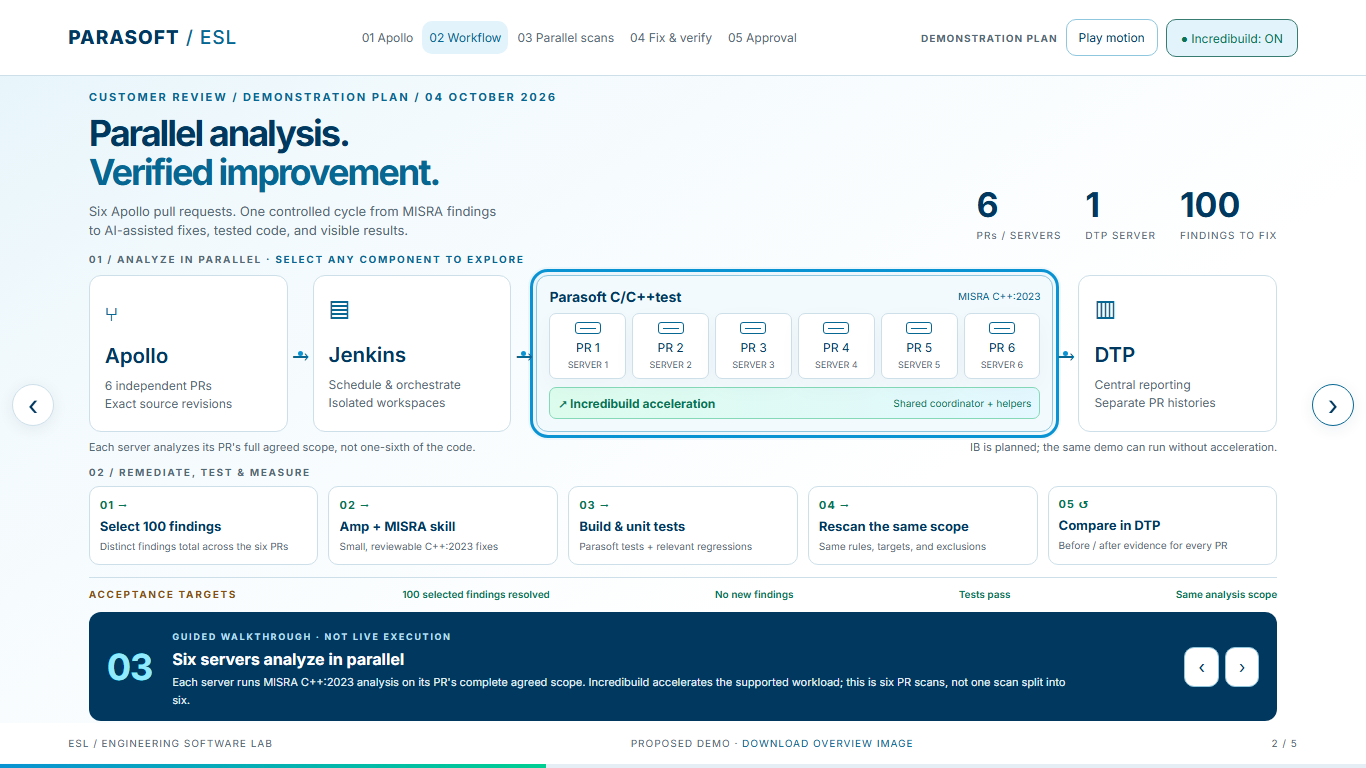
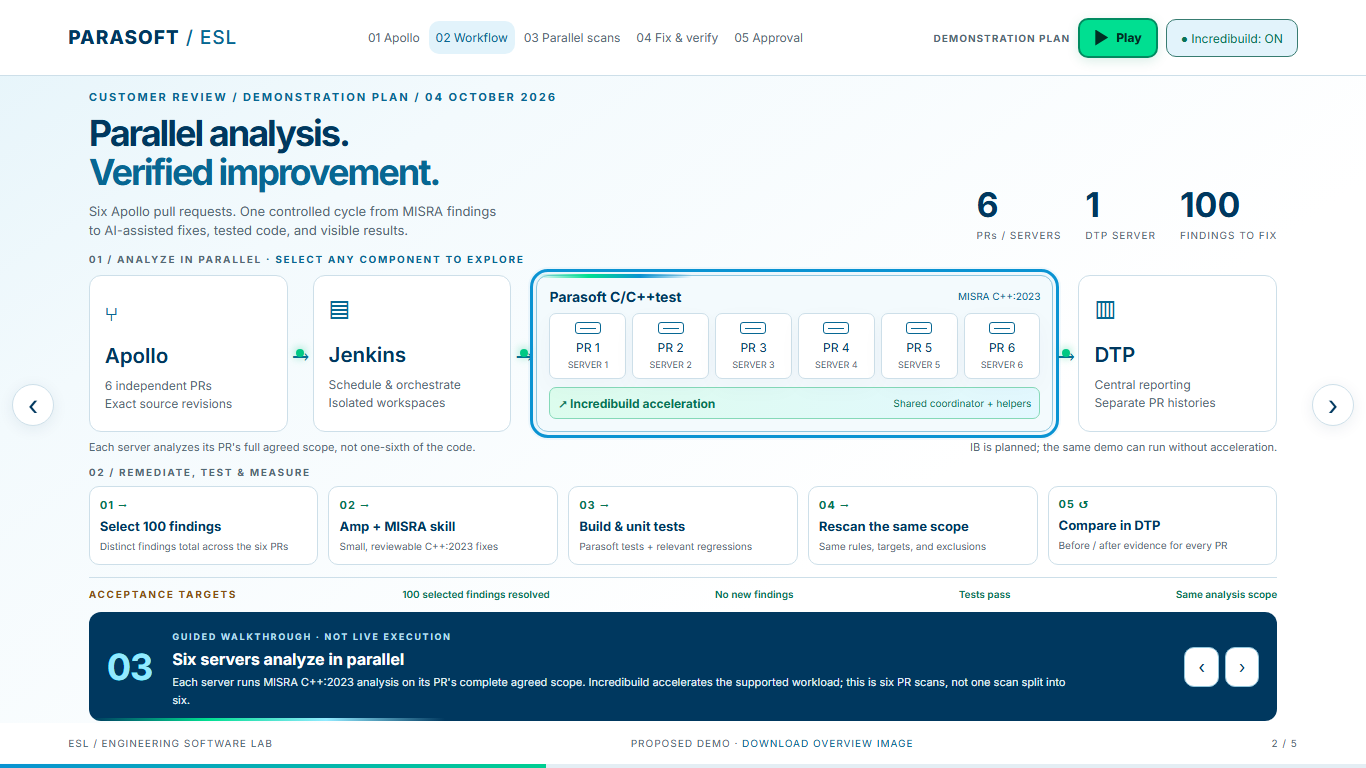
Make Apollo walkthrough playback immediate and visibly animated
Amp-Thread-ID: T-01a1063e-4fd3-7348-b0dd-2b9fa2509345

diff --git a/apollo-misra-demo/index.html b/apollo-misra-demo/index.html
@@ -15,7 +15,7 @@
 @media(min-width:1500px){.pipeline{margin-top:20px}.node{padding:28px 20px}.server{padding:22px 4px}.step{padding:22px}.underflow{margin-bottom:28px}.loop{margin-top:18px}.outcomes{padding-top:24px;margin-top:30px}}
 @media(max-width:1050px){.tabs{display:none}.heading{align-items:flex-start}.statline{gap:15px}.statline strong{font-size:28px}.pipeline{grid-template-columns:1fr 18px 1fr 18px 2.7fr 18px 1fr}.farm{padding:10px}.node{padding:14px 10px}.farm-head span{display:none}.server{font-size:10px}.server i{width:20px}.accel{display:block}.accel span{display:block;margin-top:5px}.outcomes{flex-wrap:wrap}.two-col{gap:16px}.card{padding:20px}}
 @media(max-width:720px){.top{height:66px;padding:0 20px}.brand{font-size:16px}.proposal{display:none}.top-right{gap:6px}#ibToggle{font-size:10px;padding:9px}.slide{padding:90px 28px 90px}.heading{display:block;margin-bottom:22px}h1,h2{letter-spacing:-1.2px}.statline{margin-top:20px;gap:28px}.statline strong{font-size:26px}.statline span{font-size:9px}.pipeline{grid-template-columns:1fr;gap:6px}.arrow{height:20px;transform:rotate(90deg)}.node{padding:16px;display:grid;grid-template-columns:34px 1fr;gap:4px 12px}.node .symbol{grid-row:1/3;margin:0;align-self:center}.node small{grid-column:2}.farm{padding:16px}.farm-head span{display:block}.server{padding:17px 3px}.accel{display:flex}.accel span{margin:0}.underflow{display:block;font-size:10px;line-height:1.8}.underflow span{display:block}.loop{grid-template-columns:1fr}.step{display:grid;grid-template-columns:28px 1fr;gap:3px 8px;padding:14px}.step b{grid-row:1/3;margin:2px 0}.step small{grid-column:2;margin-top:0}.outcomes{display:grid;grid-template-columns:1fr 1fr;line-height:1.6}.outcomes .label{grid-column:1/-1}.hint{line-height:1.8}.nav-arrow{width:26px;height:36px;font-size:23px}#prev{left:0}#next{right:0}.footer{padding:12px 20px;font-size:8px}.footer .footer-middle{display:none}.two-col{grid-template-columns:1fr}.lane-grid{gap:8px}.lane{padding:18px 12px}.lane b{font-size:22px}.lane span{font-size:10px}.card{padding:20px}.detail-line{font-size:12px}.target-chart strong{font-size:54px}.eyebrow{font-size:10px;line-height:1.7}.callout{font-size:12px}}
-@media(prefers-reduced-motion:reduce){*{animation:none!important;transition:none!important}}
+@media(prefers-reduced-motion:reduce){body:not(.motion-enabled) *{animation:none!important;transition:none!important}}
 @media print{body{overflow:visible;background:white;color:black}.top,.footer,.nav-arrow,.progress,.tabs,.hint,.actions{display:none!important}.deck{display:block;transform:none!important}.slide{height:auto;min-height:95vh;width:100%;padding:25px;overflow:visible;break-after:page;background:#07101d;color:#edf5fc;print-color-adjust:exact}.slide[inert]{display:block}.heading{display:block}.two-col{grid-template-columns:1fr 1fr}}
 
 /* Palette sampled from Parasoft's C/C++test product page. */
@@ -31,7 +31,10 @@ button[aria-pressed="true"],.tabs button[aria-current="page"]{background:#e2f3fb
 .primary{background:linear-gradient(100deg,#00e99c,#a0ecff);color:#002743;border-color:transparent;border-radius:24px}
 .progress{background:#e4eef4}.progress div{background:linear-gradient(90deg,#0a93d2,#00ce92)}
 dialog{border-color:#8fc7df}dialog::backdrop{background:#00274380}
-#motionToggle{padding:10px 12px;font-size:12px;white-space:nowrap;border-color:#8fc7df}
+#motionToggle{display:flex;align-items:center;gap:8px;padding:10px 14px;font-size:12px;font-weight:800;white-space:nowrap;background:#00df91;color:#002f24;border:2px solid #008b60;box-shadow:0 3px 12px #008b6026}
+#motionToggle:hover{background:#2aefa9}#motionToggle[aria-pressed="true"]{background:#087454;color:#fff;border-color:#065b42}
+#motionIcon{width:14px;height:16px;display:block;flex-shrink:0;background:currentColor;clip-path:polygon(8% 0,100% 50%,8% 100%)}
+#motionToggle[aria-pressed="true"] #motionIcon{clip-path:none;background:none;border-left:5px solid currentColor;border-right:5px solid currentColor}
 .intro-grid{display:grid;grid-template-columns:1.15fr 1fr;gap:24px;margin-top:24px}
 .intro-metric{background:var(--white);color:white;border-radius:16px;padding:28px;position:relative;overflow:hidden}
 .intro-metric:after{content:'C++';position:absolute;right:-8px;top:10px;font-size:130px;font-weight:800;opacity:.06;pointer-events:none}
@@ -43,10 +46,18 @@ dialog{border-color:#8fc7df}dialog::backdrop{background:#00274380}
 .walkthrough{display:grid;grid-template-columns:auto 1fr auto;gap:20px;align-items:center;background:#00385f;color:white;border-radius:12px;padding:18px 22px;margin-top:18px;min-height:115px}
 .walkthrough .phase-index{font-size:36px;color:#92eaff;font-weight:700;letter-spacing:-1px}.walkthrough .label{color:#b7dfee;font-size:9px}.walkthrough h3{margin:5px 0;font-size:18px}.walkthrough p{margin:0;color:#e1f1f8;font-size:12px;line-height:1.6;max-width:900px}.phase-controls{display:flex;gap:6px}.phase-controls button{background:#fff;color:#00385f;padding:9px 13px;border-color:#92c6dc;font-size:17px}
 .is-active{outline:3px solid var(--blue);outline-offset:3px;box-shadow:0 0 0 8px #0a93d20e!important;transition:outline-color .3s,box-shadow .3s}
-.arrow{position:relative}.arrow:after{content:'';position:absolute;width:5px;height:5px;background:var(--blue);border-radius:50%;animation:flow 1.5s linear infinite}
-@keyframes flow{0%{translate:-10px 0;opacity:0}25%{opacity:1}100%{translate:10px 0;opacity:0}}
+.arrow{position:relative}.arrow:after{content:'';position:absolute;width:8px;height:8px;background:#00c884;box-shadow:0 0 10px #00c884aa;border-radius:50%;animation:flow 1.2s linear infinite}
+@keyframes flow{0%{translate:-12px 0;opacity:0;scale:.5}25%{opacity:1;scale:1}100%{translate:12px 0;opacity:0;scale:.5}}
 .step.is-active b,.server i{animation:signal 2s ease-in-out infinite}.server:nth-child(2n) i{animation-delay:.4s}.server:nth-child(3n) i{animation-delay:.8s}
 @keyframes signal{50%{opacity:.4}}
+.farm{position:relative}.farm:after{content:'';position:absolute;top:-2px;left:0;width:30%;height:4px;border-radius:4px;background:linear-gradient(90deg,transparent,#00df91,var(--blue),transparent);animation:scan-sweep 2.4s ease-in-out infinite}
+@keyframes scan-sweep{0%,100%{left:0;opacity:.3}50%{left:70%;opacity:1}}
+.is-active{animation:active-phase 1.8s ease-in-out infinite}.server{animation:server-lift 2.4s ease-in-out infinite}.server:nth-child(2){animation-delay:.2s}.server:nth-child(3){animation-delay:.4s}.server:nth-child(4){animation-delay:.6s}.server:nth-child(5){animation-delay:.8s}.server:nth-child(6){animation-delay:1s}
+@keyframes active-phase{50%{outline-color:#00b77c;filter:drop-shadow(0 5px 8px #0a93d233)}}
+@keyframes server-lift{50%{translate:0 -5px;border-color:#00a873}}
+.cycle-steps [aria-pressed="true"],.lane[aria-pressed="true"]{animation:stage-glow 1.8s ease-in-out infinite}
+@keyframes stage-glow{50%{background:#d2f7e9;translate:5px 0}}
+.walkthrough{position:relative;overflow:hidden}.walkthrough:after{content:'';position:absolute;bottom:0;left:0;height:3px;width:30%;background:linear-gradient(90deg,transparent,#00df91,#92eaff,transparent);animation:scan-sweep 2.4s ease-in-out infinite}
 .cycle-steps button:after{content:'↓';margin-left:auto;color:var(--blue);font-size:18px}.cycle-steps button:last-of-type:after{content:'↺'}
 .cycle-steps [aria-pressed="true"]{box-shadow:inset 4px 0 var(--blue)}
 .motion-paused *{animation-play-state:paused!important}.slide[inert] *{animation-play-state:paused!important}
@@ -65,7 +76,7 @@ dialog{border-color:#8fc7df}dialog::backdrop{background:#00274380}
   .two-col{margin-top:18px}.card{padding:18px}.card p{font-size:13px;line-height:1.5;margin:10px 0}.card h3{font-size:20px;margin-bottom:10px}.detail-line{padding:10px 0;font-size:12px}.lane{padding:20px 14px}.pill{margin-bottom:10px}
   .cycle-steps button{padding:13px 16px}.target-chart{padding:10px 0}.target-chart strong{font-size:52px}.checks{margin-top:0;gap:8px}.check{padding:11px;font-size:12px;line-height:1.5}.approval-total{font-size:46px;margin:10px 0}.actions{margin-top:12px}.approval-note{font-size:10px!important}.status{min-height:20px}
 }
-@media(prefers-reduced-motion:reduce){*::before,*::after{animation:none!important;transition:none!important}}
+@media(prefers-reduced-motion:reduce){body:not(.motion-enabled) *::before,body:not(.motion-enabled) *::after{animation:none!important;transition:none!important}}
 @media print{.slide{background:#fff;color:#00385f}.top,.phase-controls{display:none!important}.walkthrough,.intro-metric{print-color-adjust:exact}.is-active{outline:none}}
 </style>
 </head>
@@ -75,7 +86,7 @@ dialog{border-color:#8fc7df}dialog::backdrop{background:#00274380}
   <nav class="tabs" aria-label="Presentation sections">
     <button data-slide="0" aria-current="page">01 Apollo</button><button data-slide="1">02 Workflow</button><button data-slide="2">03 Parallel scans</button><button data-slide="3">04 Fix &amp; verify</button><button data-slide="4">05 Approval</button>
   </nav>
-  <div class="top-right"><span class="proposal">DEMONSTRATION PLAN</span><button id="motionToggle" aria-pressed="true" aria-label="Toggle walkthrough animation">Pause motion</button><button id="ibToggle" aria-pressed="true">● Incredibuild: ON</button></div>
+  <div class="top-right"><span class="proposal">DEMONSTRATION PLAN</span><button id="motionToggle" aria-pressed="false" aria-label="Play animated walkthrough"><span id="motionIcon" aria-hidden="true"></span><span id="motionLabel">Play</span></button><button id="ibToggle" aria-pressed="true">● Incredibuild: ON</button></div>
 </header>
 <main class="deck" id="deck">
   <section class="slide" aria-label="Apollo project introduction">
@@ -185,7 +196,8 @@ const dialog = document.getElementById('info-dialog');
 let current = 0;
 let ibEnabled = true;
 const reducedMotion = window.matchMedia('(prefers-reduced-motion: reduce)');
-let motionEnabled = !reducedMotion.matches;
+let motionEnabled = false;
+let motionTimer;
 let phase = 0;
 let stage = 0;
 const stages = [
@@ -206,6 +218,7 @@ function goTo(index) {
   const focusedSlide = document.activeElement.closest('.slide');
   if (focusedSlide && focusedSlide !== slides[next]) document.activeElement.blur();
   current = next;
+  if (current === 0 || current === 4) setMotion(false);
   document.getElementById('deck').style.transform = `translateX(-${current * 100}vw)`;
   slides.forEach((slide, i) => { slide.inert = i !== current; });
   document.querySelectorAll('[data-slide]').forEach(button => {
@@ -247,28 +260,43 @@ function selectPhase(index) {
     ? 'Each of the same six Parasoft servers analyzes its assigned PR without Incredibuild. Rules, scope, test gates, and DTP reporting stay unchanged. Record this mode and measure actual timings.'
     : phases[phase][2];
 }
+function advanceMotion() {
+  if (document.hidden || dialog.open) return;
+  if (current === 1) selectPhase(phase + 1);
+  if (current === 2) selectLane(Number(document.querySelector('[data-lane][aria-pressed="true"]').dataset.lane) % 6 + 1);
+  if (current === 3) selectStage((stage + 1) % stages.length);
+}
 function setMotion(enabled) {
   motionEnabled = enabled;
+  clearInterval(motionTimer);
+  document.body.classList.toggle('motion-enabled', enabled);
   document.body.classList.toggle('motion-paused', !enabled);
   document.getElementById('motionToggle').setAttribute('aria-pressed', enabled);
-  document.getElementById('motionToggle').textContent = enabled ? 'Pause motion' : 'Play motion';
+  document.getElementById('motionToggle').setAttribute('aria-label', enabled ? 'Pause animated walkthrough' : 'Play animated walkthrough');
+  document.getElementById('motionLabel').textContent = enabled ? 'Pause' : 'Play';
+  if (enabled) motionTimer = setInterval(advanceMotion, 6500);
 }
-document.getElementById('motionToggle').addEventListener('click', () => setMotion(!motionEnabled));
-reducedMotion.addEventListener('change', () => setMotion(!reducedMotion.matches));
+document.getElementById('motionToggle').addEventListener('click', () => {
+  if (motionEnabled) { setMotion(false); return; }
+  setMotion(true);
+  if (current === 0 || current === 4) { goTo(1); selectPhase(0); }
+  else advanceMotion();
+  if (innerWidth <= 720) {
+    const slide = slides[current];
+    const panel = slide.querySelector(current === 1 ? '.walkthrough' : '.card');
+    slide.scrollTop += panel.getBoundingClientRect().top - slide.getBoundingClientRect().top - 90;
+  }
+});
+reducedMotion.addEventListener('change', () => { if (reducedMotion.matches) setMotion(false); });
 document.getElementById('phase-prev').addEventListener('click', () => { setMotion(false); selectPhase(phase - 1); });
 document.getElementById('phase-next').addEventListener('click', () => { setMotion(false); selectPhase(phase + 1); });
-setInterval(() => {
-  if (!motionEnabled || document.hidden || dialog.open) return;
-  if (current === 1) selectPhase(phase + 1);
-  if (current === 3) selectStage((stage + 1) % stages.length);
-}, 6500);
 setMotion(motionEnabled);
 selectPhase(0);
 document.querySelectorAll('[data-slide]').forEach(button => button.addEventListener('click', () => goTo(Number(button.dataset.slide))));
 document.getElementById('prev').addEventListener('click', () => goTo(current - 1));
 document.getElementById('next').addEventListener('click', () => goTo(current + 1));
 document.querySelectorAll('[data-pr]').forEach(button => button.addEventListener('click', () => { selectLane(Number(button.dataset.pr)); goTo(2); }));
-document.querySelectorAll('[data-lane]').forEach(button => button.addEventListener('click', () => selectLane(Number(button.dataset.lane))));
+document.querySelectorAll('[data-lane]').forEach(button => button.addEventListener('click', () => { setMotion(false); selectLane(Number(button.dataset.lane)); }));
 document.querySelectorAll('[data-cycle]').forEach(button => button.addEventListener('click', () => { setMotion(false); selectStage(Number(button.dataset.cycle)); goTo(3); }));
 document.querySelectorAll('[data-stage]').forEach(button => button.addEventListener('click', () => { setMotion(false); selectStage(Number(button.dataset.stage)); }));
 document.querySelectorAll('[data-info]').forEach(button => button.addEventListener('click', () => {
